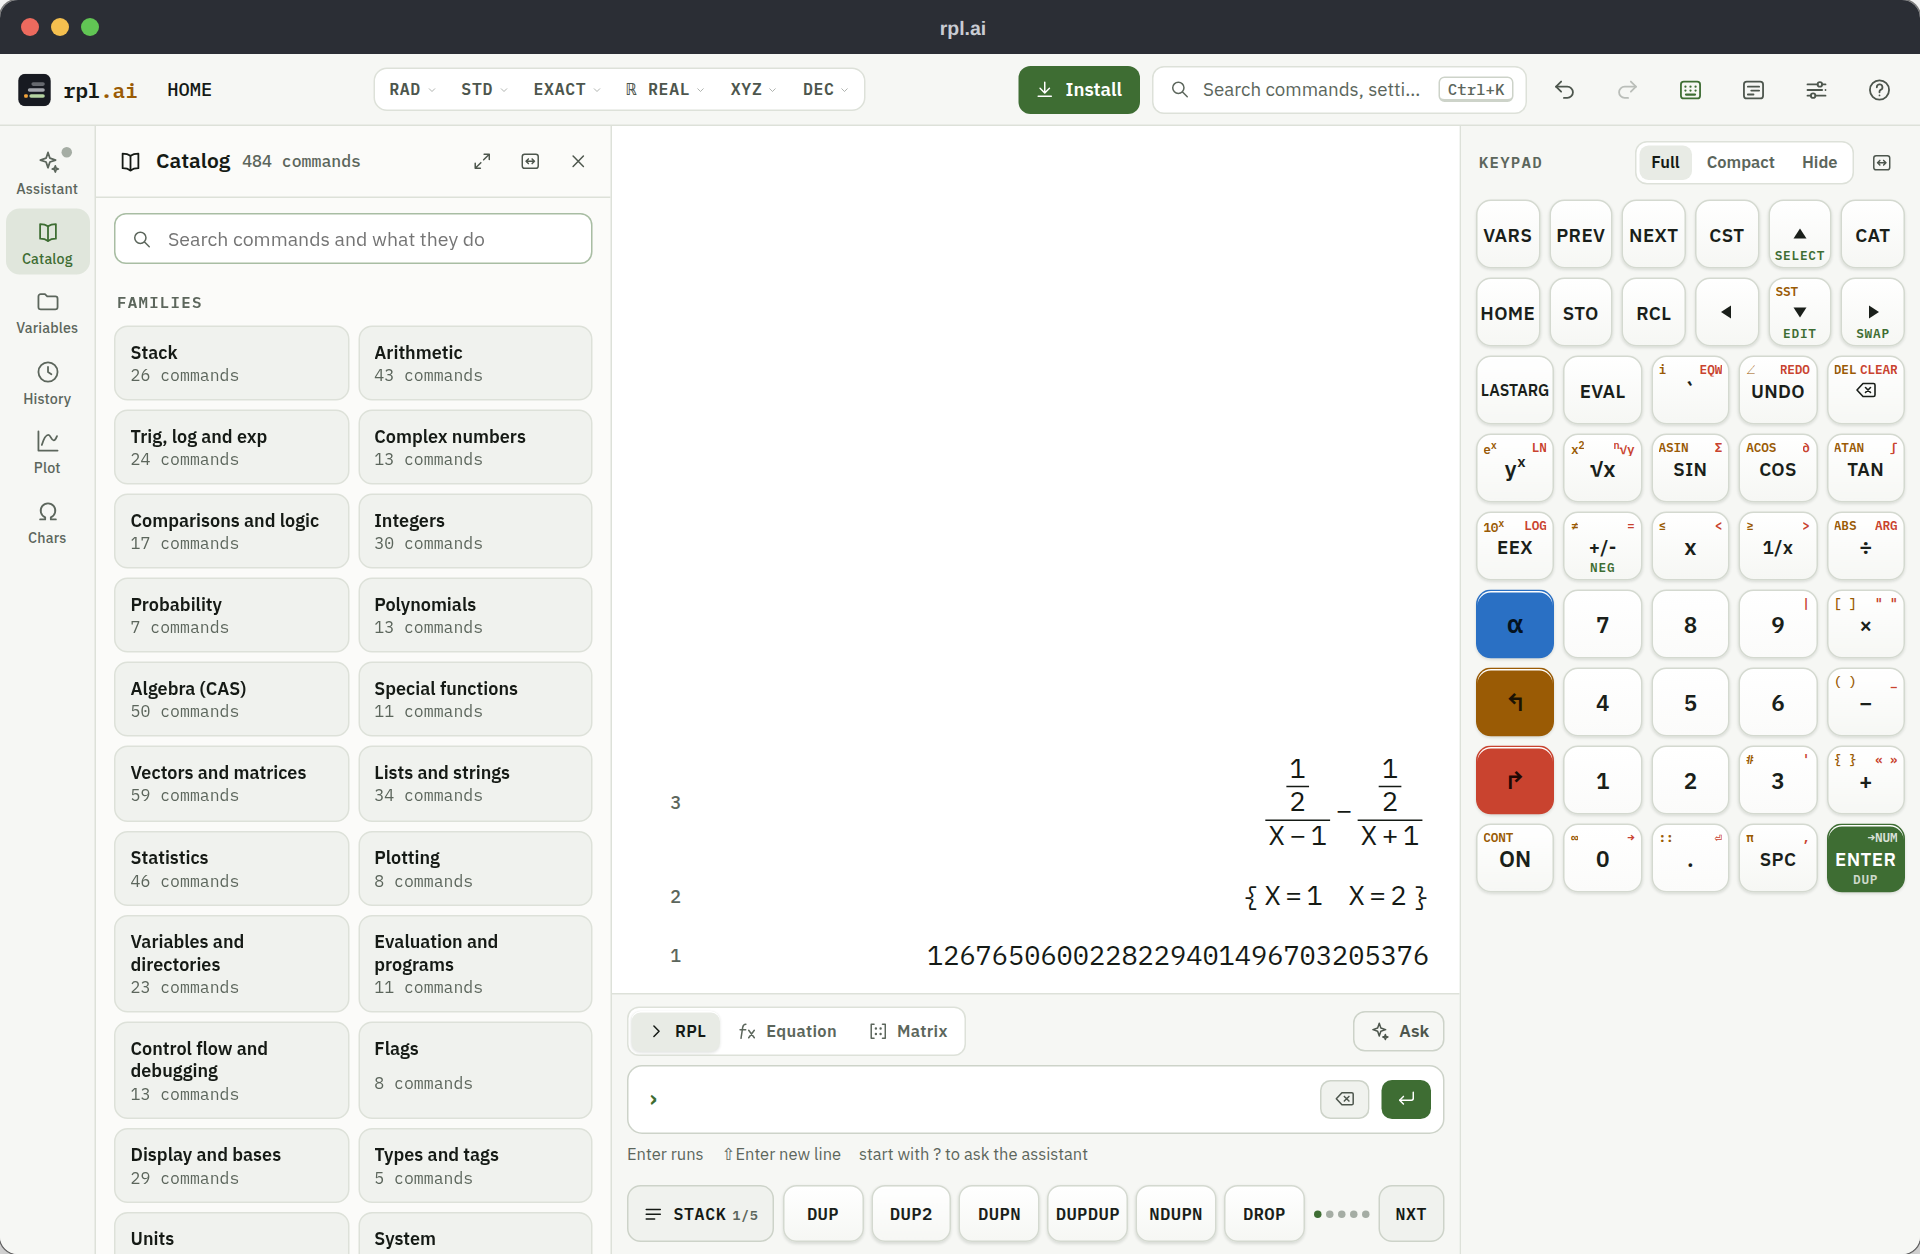
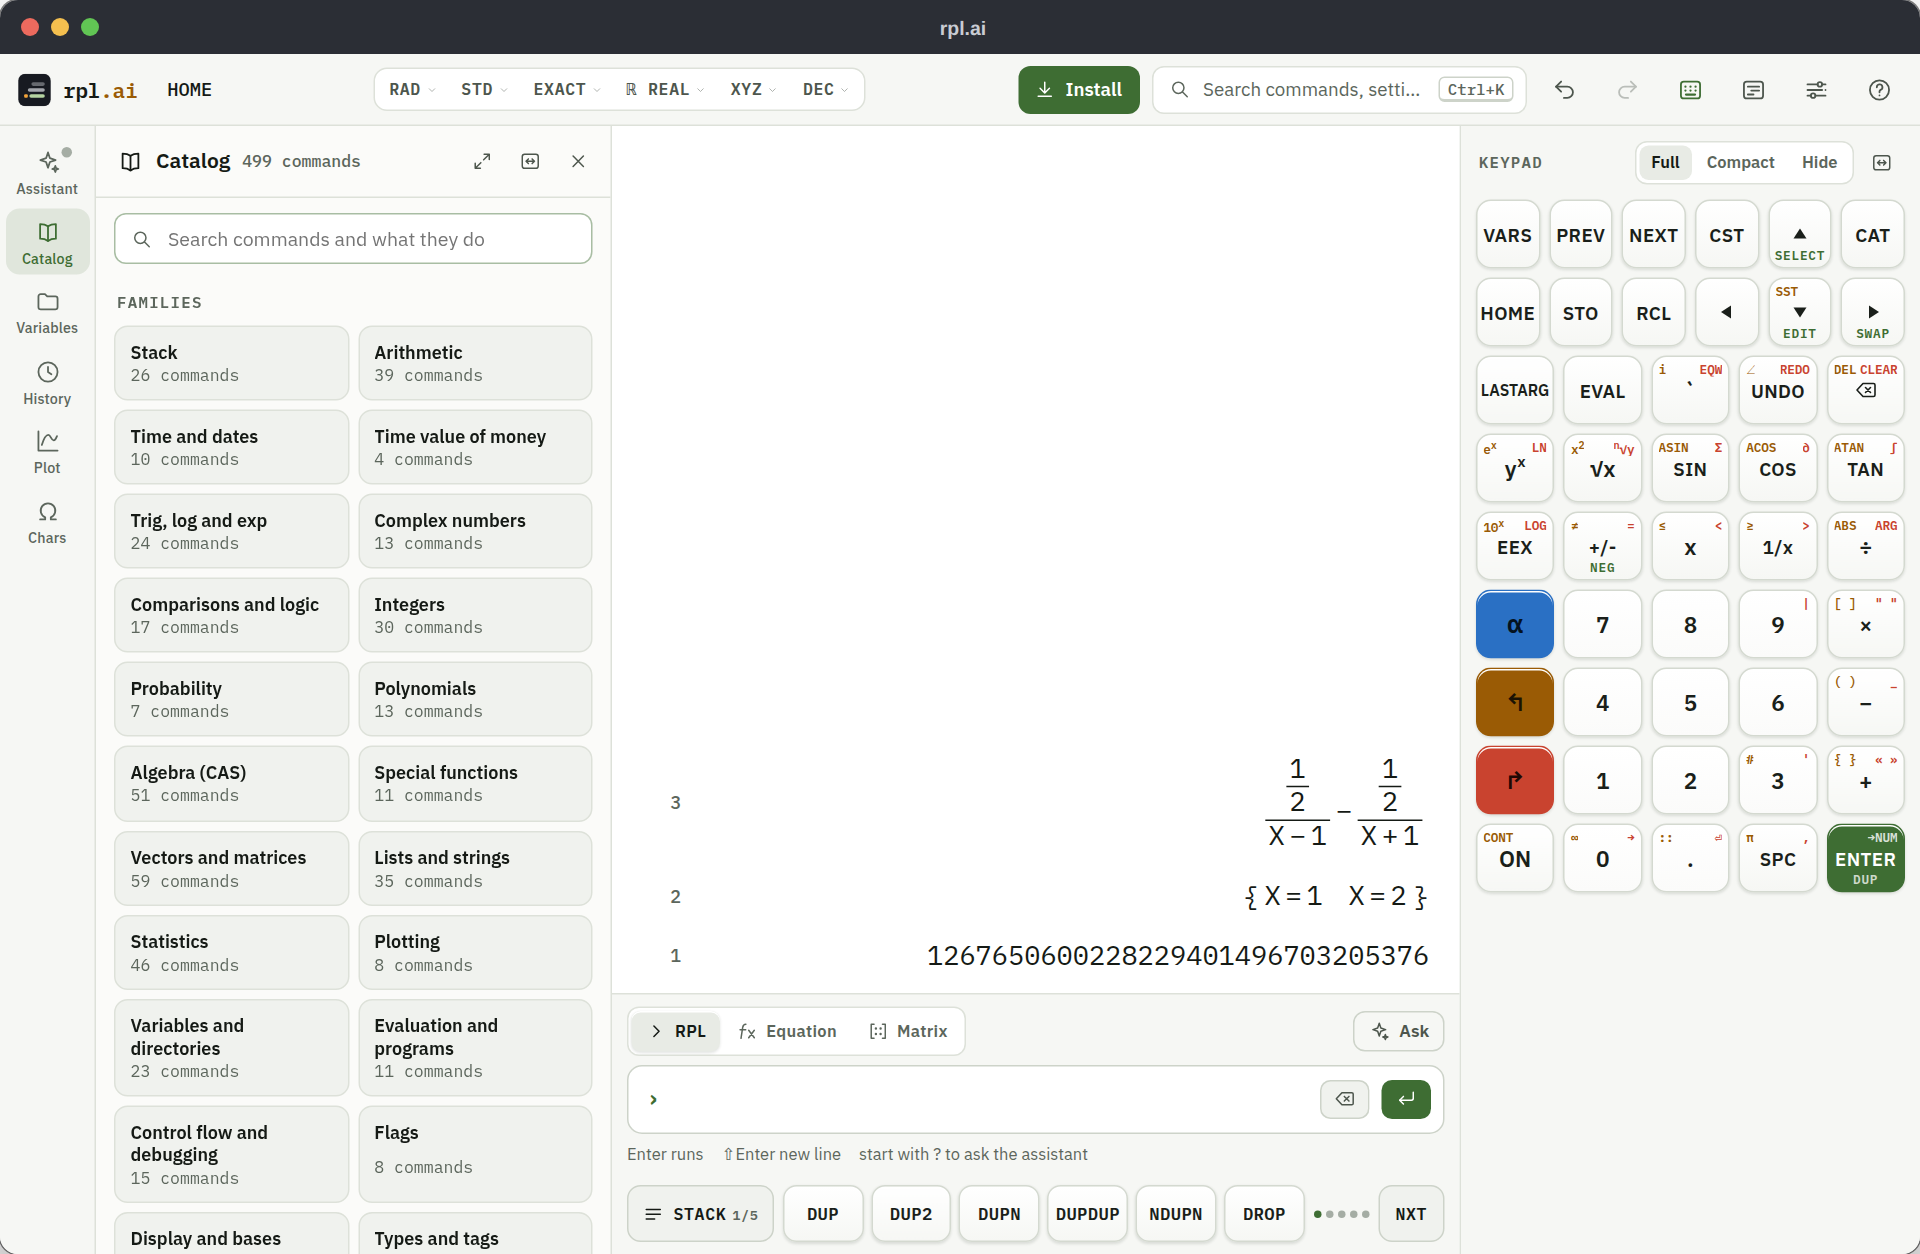
add the HP's ADD command
ADD adds two lists pair by pair, or a number to every element, where + appends; it sits after ΣLIST in the LIST menu. The Catalog counts 499 commands.

diff --git a/www/docs/hp50-commands.html b/www/docs/hp50-commands.html
@@ -66,7 +66,7 @@ input[type=text] { width: 100%; padding: 0.5em; font-size: 1em; border: 1px soli
 </head>
 <body>
 <h1 id='top'>HP 50g Advanced Guide — Command Reference</h1>
-<p>825 commands extracted from the HP 50g Advanced User's Reference Manual. 486 are implemented in this RPL app. Sections are reproduced verbatim from the PDF.</p>
+<p>825 commands extracted from the HP 50g Advanced User's Reference Manual. 487 are implemented in this RPL app. Sections are reproduced verbatim from the PDF.</p>
 <div class="search-box"><input type="text" id="search" placeholder="Filter commands…" oninput="filterTOC()" autofocus></div>
 <h2 style='background:none; border-left:none; padding-left:0;'>Index (alphabetical)</h2>
 <div class="toc" id="toc">
@@ -94,7 +94,7 @@ input[type=text] { width: 100%; padding: 0.5em; font-size: 1em; border: 1px soli
 <a href="#cmd-ACOS">ACOS</a>
 <a href="#cmd-ACOS2S">ACOS2S</a>
 <a href="#cmd-ACOSH">ACOSH</a>
-<a href="#cmd-ADD" class='notinapp'>ADD</a>
+<a href="#cmd-ADD">ADD</a>
 <a href="#cmd-ADDTMOD">ADDTMOD</a>
 <a href="#cmd-ADDTOREAL" class='notinapp'>ADDTOREAL</a>
 <a href="#cmd-ALGB" class='notinapp'>ALGB</a>
@@ -1078,7 +1078,7 @@ input[type=text] { width: 100%; padding: 0.5em; font-size: 1em; border: 1px soli
     <p>ASINH, ATANH, COSH, ISOL</p>
   </dd>
 </dl>
-<h2 id="cmd-ADD">ADD <span class="not-in-app">not in app</span> <span class="back"><a href="#top">↑ top</a></span></h2>
+<h2 id="cmd-ADD">ADD <span class="in-app">in app</span> <span class="back"><a href="#top">↑ top</a></span></h2>
 <div class="meta">PDF page 129 · printed page 3-9</div>
 <dl class="cmd-body">
   <dt class="cmd-label cmd-label-type">Type</dt>

diff --git a/www/src/ai/system-prompt.js b/www/src/ai/system-prompt.js
@@ -130,6 +130,7 @@ CONTAINERS
   ROW+ ROW- COL+ COL- CSWP RSWP RCI RCIJ      row / column manipulation
   SEQ DOLIST DOSUBS STREAM MAP    list combinators (body programs in « »)
   ΣLIST ΔLIST ΠLIST           sum / differences / product over a list
+  ADD                         add two lists pair by pair, or a number to each element ({ 1 2 } { 10 20 } ADD gives { 11 22 }; + appends)
 
 UNITS  (built-in: SI units m kg s A K mol cd Hz N J W Pa V Ω C F with prefixes, as in 5_kJ 1_MHz 3_uA; also cm mm km in ft yd mi nmi  g mg lb oz  ms min h d yr  L mL gal  mph kph  lbf cal Btu Wh hp bar atm psi  °C °F  angles ° r grad arcmin arcs sr, and the rest of the HP 50g catalog (Å ftUS miUS chain c ga t u gf therm inH2O Ci rem P St …) — combine with * / ^, e.g. 9.81_m/s^2.  Units also sit inside algebraics, a compound unit in parentheses: 2_s \`T\` STO \`9.81_(m/s^2)*T^2/2\` EVAL gives 19.62_m)
   →UNIT                      x 1_unit →UNIT — attach a unit (5 1_km →UNIT gives 5_km); literal form 5_km, 9.81_m/s^2

diff --git a/www/src/rpl/ops/lists.js b/www/src/rpl/ops/lists.js
@@ -341,6 +341,21 @@ register('ΣLIST', _foldListOp('+', Real(0)), { category: 'Lists / strings', cat
 
 register('ΠLIST', _foldListOp('*', Real(1)), { category: 'Lists / strings', categoryOrder: 20, label: "ΠLIST" });
 
+register('ADD', (s) => {
+  const [a, b] = s.popN(2);
+  if (!isList(a) && !isList(b)) throw new RPLError('Bad argument type');
+  if (isList(a) && isList(b) && a.items.length !== b.items.length) throw new RPLError('Invalid dimension');
+  const at = (v, i) => isList(v) ? v.items[i] : v;
+  const plus = lookup('+');
+  const sums = (isList(a) ? a : b).items.map((_, i) => {
+    s.push(at(a, i));
+    s.push(at(b, i));
+    plus.fn(s);
+    return s.pop();
+  });
+  s.push(RList(sums));
+}, { category: 'Lists / strings', categoryOrder: 21.5, label: "ADD" });
+
 register('SLIST', _foldListOp('+', Real(0)), { category: 'Lists / strings', categoryOrder: 24, label: "SLIST" });
 
 register('PLIST', _foldListOp('*', Real(1)), { category: 'Lists / strings', categoryOrder: 23, label: "PLIST" });

diff --git a/README.md b/README.md
@@ -4,7 +4,7 @@
 
 rpl.ai is a programmable RPL calculator that runs in any modern browser and
 keeps working offline. It implements the HP 50g's User-RPL language and most
-of its command set: 498 commands, exact big-integer and rational arithmetic,
+of its command set: 499 commands, exact big-integer and rational arithmetic,
 units, lists, matrices, programs and directories. It swaps the 131×80 LCD
 for a high-resolution stack, a real keyboard, mouse or touch screen, and the
 [Giac](https://www-fourier.univ-grenoble-alpes.fr/~parisse/giac.html)
@@ -782,7 +782,7 @@ rpl.ai aims to keep everything that makes the HP 50g good, without its
 bugs, and to go beyond it where a modern screen helps. It isn't finished,
 and these are the gaps worth knowing about.
 
-**Commands.** The HP 50g manual lists 825 commands; rpl.ai has 498. The
+**Commands.** The HP 50g manual lists 825 commands; rpl.ai has 499. The
 Catalog and the command reference mark what is available. Not there yet:
 
 - program I/O: KEY. Programs read their arguments from the stack, label
